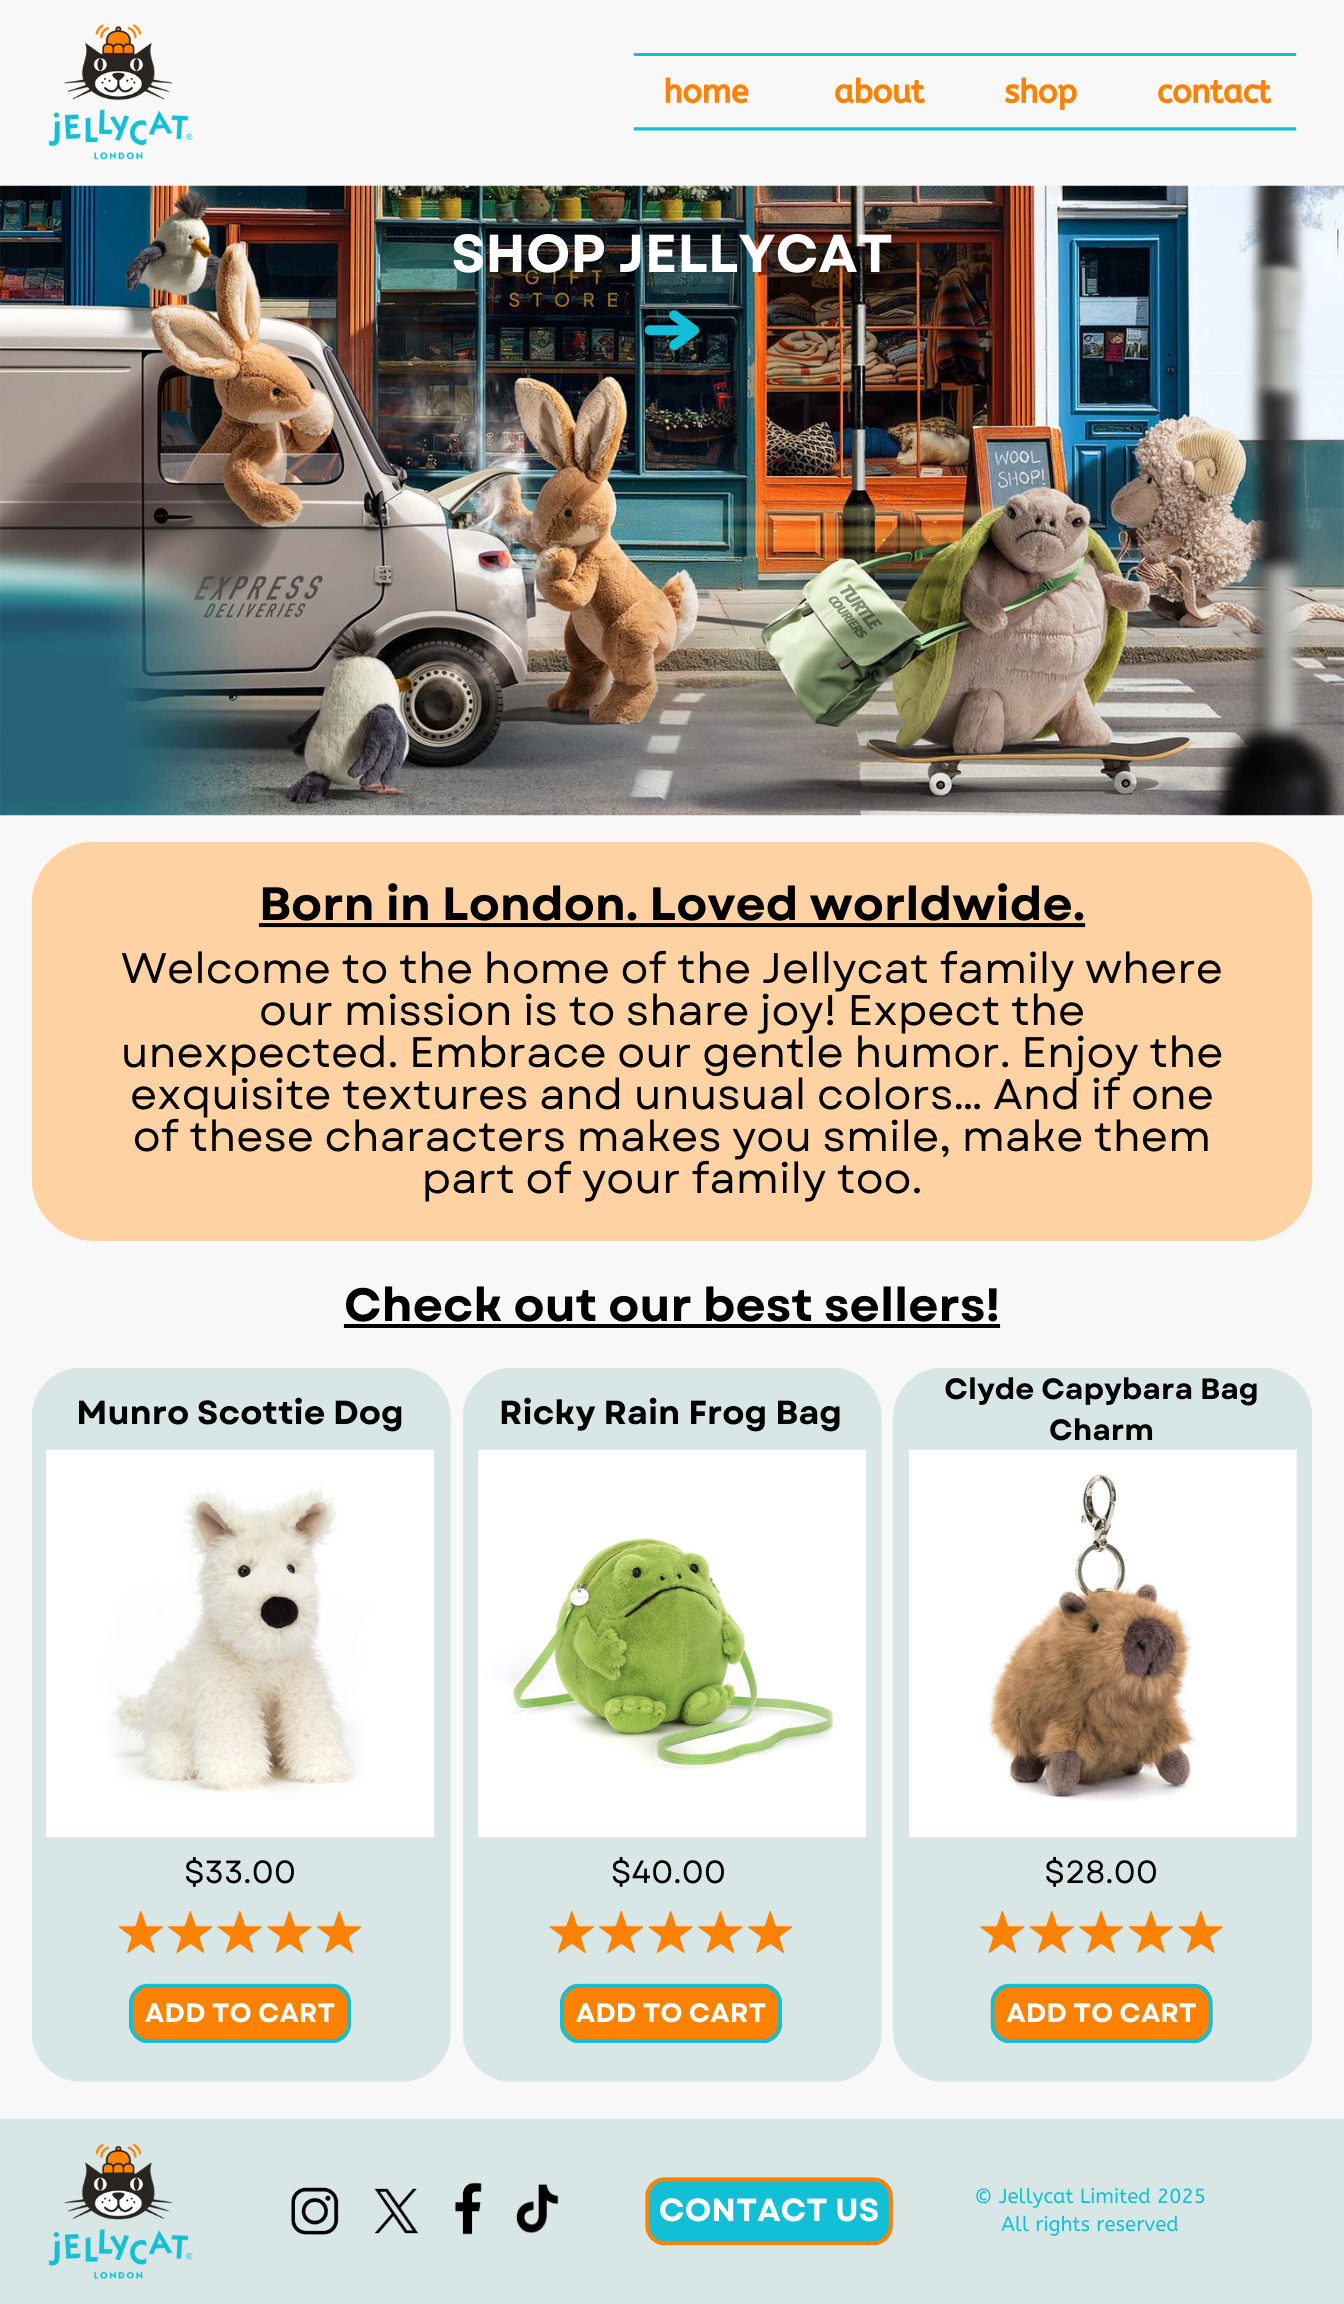
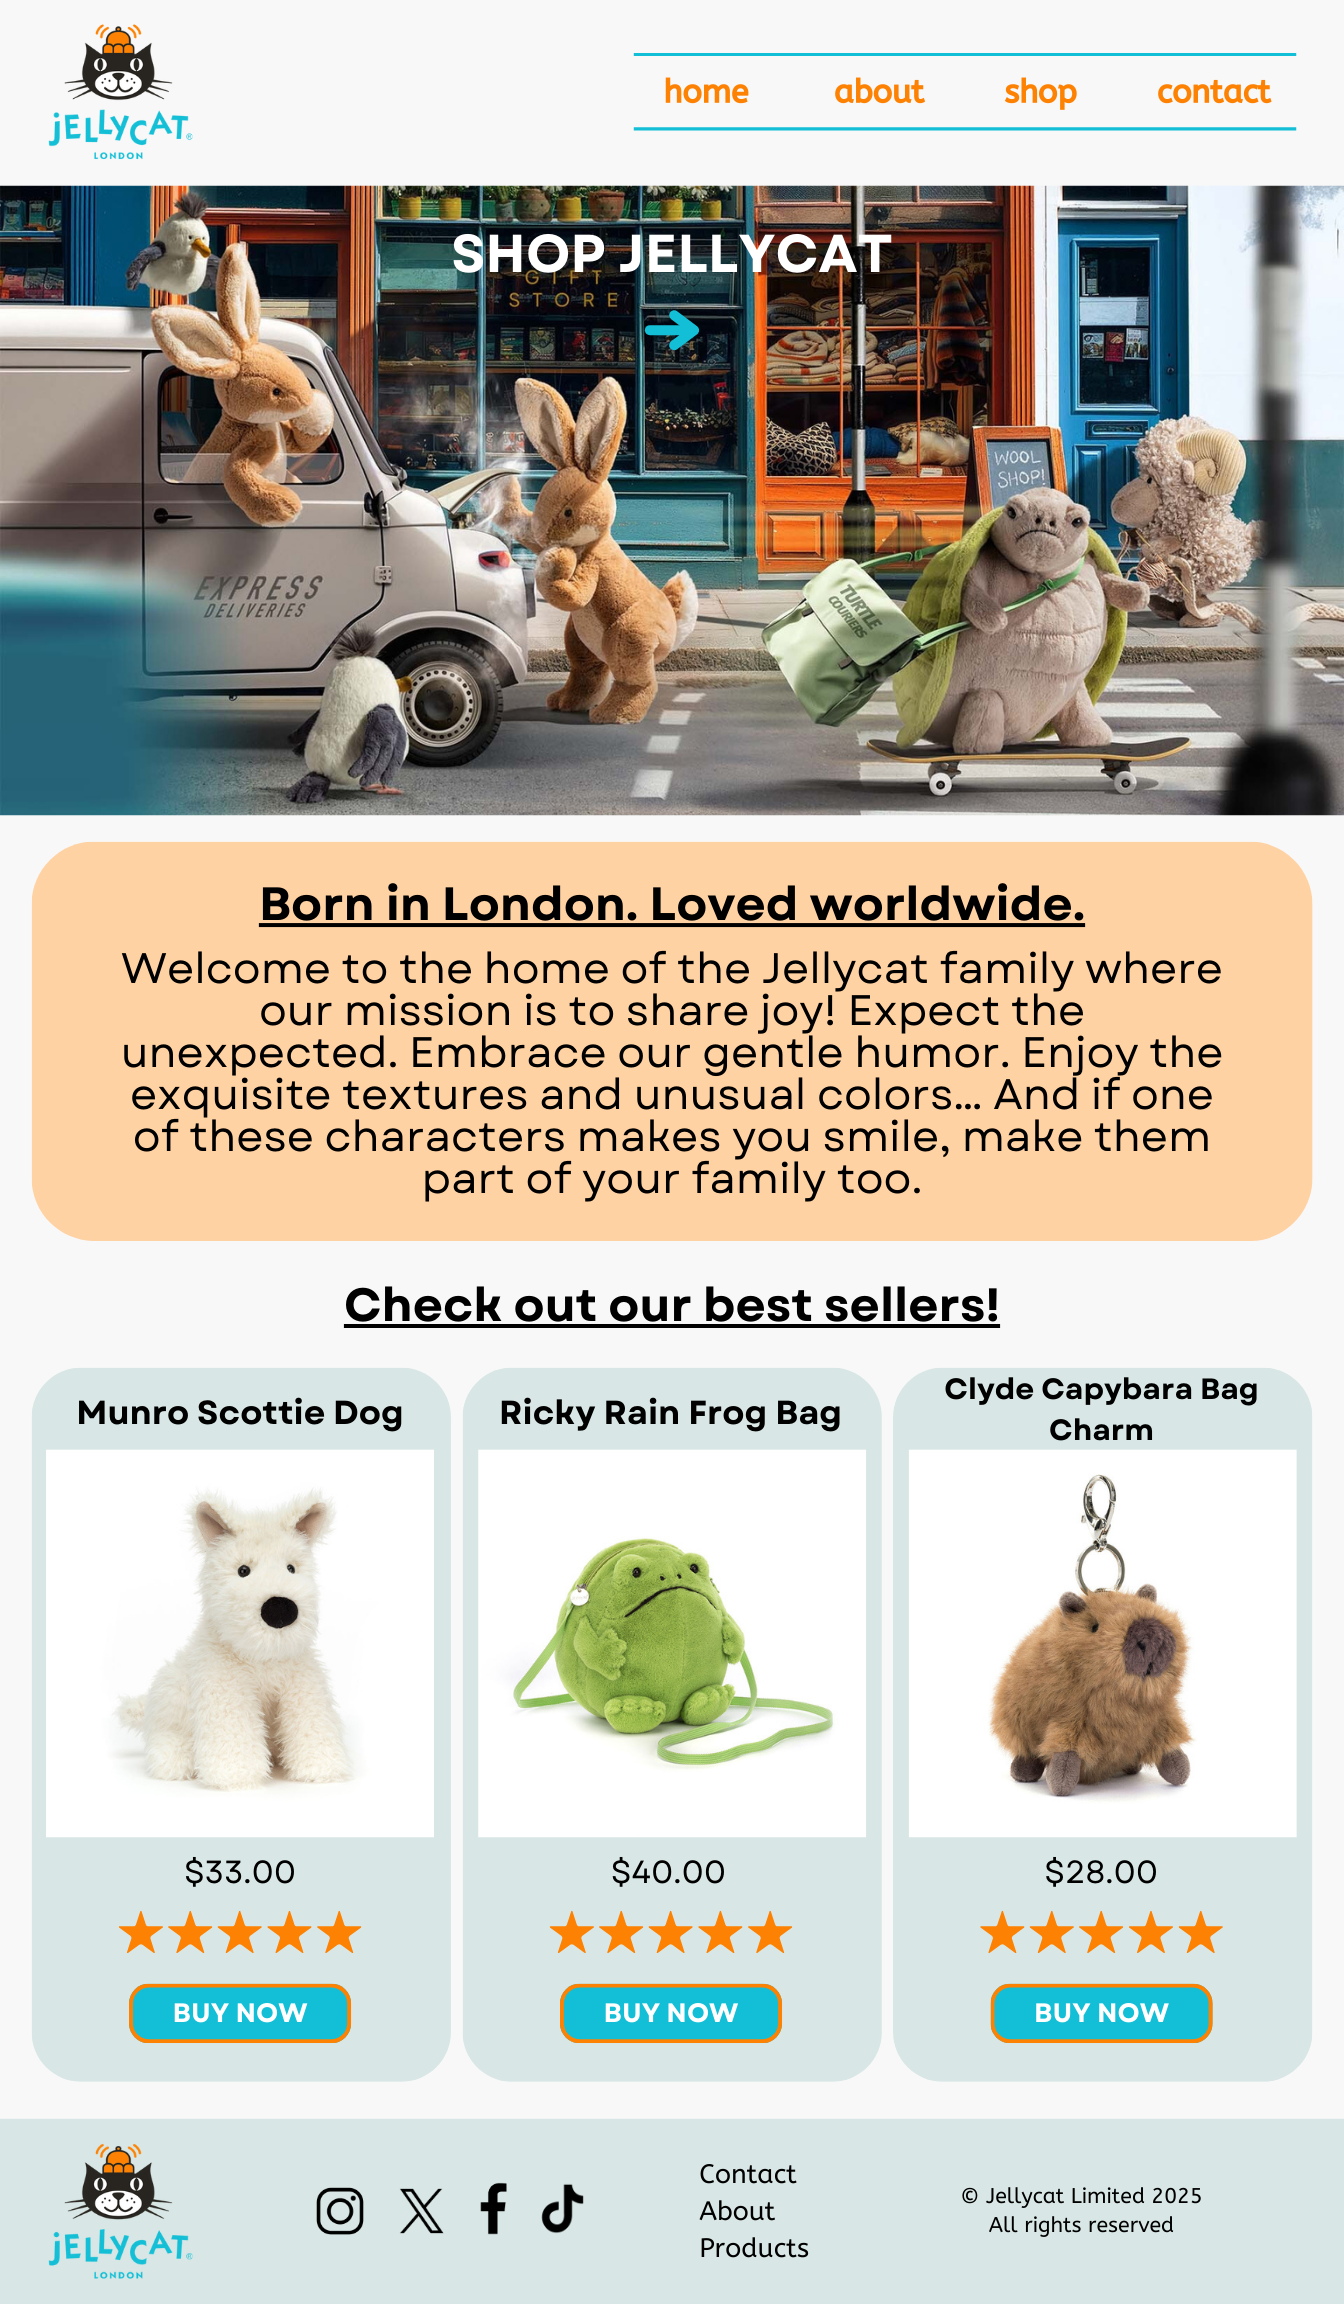
Add files via upload

diff --git a/project-css/css/style.css b/project-css/css/style.css
@@ -111,13 +111,13 @@ p,li,a,figcaption,blockquote{
     left: 40%;
     width: 120px;
     height: auto;
-    transition: all .25s linear;
+    transition: all .25s ease-in;
 }
 /* increase arrow gif size on hover */
 .home-masthead .arrows a:hover{
-    width: 130px;
+    width: 135px;
     height: auto;
-    transition: all .25s linear;
+    transition: all .25s ease-in;
 }
 /* TODO: use svg for arrow instead of gifs */
 
@@ -179,6 +179,12 @@ p,li,a,figcaption,blockquote{
     width: 300px;
     height: 450px;
 }
+.product-cards h2{
+    font-size: 38px;
+    text-decoration: underline;
+    text-align: center;
+    padding-top: 25px;
+}
 .product-cards section{
     display: flex;
     align-items: center;
@@ -196,11 +202,11 @@ p,li,a,figcaption,blockquote{
     padding-bottom: 5px;
 }
 .product-cards h3{
-    font-size: 20px;
+    font-size: 22px;
     text-align: center;
 }
 .product-cards figcaption{
-    font-size: 25px;
+    font-size: 28px;
     text-align: center;
     padding-bottom: 10px;
 }
@@ -223,10 +229,10 @@ p,li,a,figcaption,blockquote{
     margin-right: auto;
     background-color: #33CEE5;
     border: solid 2px #fd8204;
-    border-radius: 10px;
+    border-radius: 20px;
     width: 170px;
-    height: 40px;
-    padding-top: 15px;
+    height: 35px;
+    padding-top: 12px;
     transition: all .3s linear;
 }
 .product-cards .button a{
